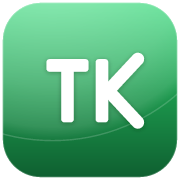
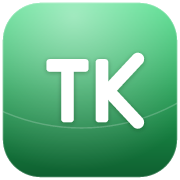
fix: โลโก้ TK — กระจกเงาคลาสสิกแบบ FW (ครึ่งบนสว่าง + เส้นสะท้อนโค้งนุ่ม)
รื้อ gloss ให้เหมือน FW ต้นฉบับ: radial ครึ่งบนสว่างชัด + เส้นสะท้อนวงใหญ่โค้งนุ่ม
พาดล่าง เข้มลงล่าง · sync generator · icon.svg · Logo.tsx + regenerate PNG

diff --git a/src/components/Logo.tsx b/src/components/Logo.tsx
@@ -22,10 +22,9 @@ export function Logo({ size = 40, className }: { size?: number; className?: stri
           <stop offset="0.5" stopColor="#1c9a4e" />
           <stop offset="1" stopColor="#0f5f30" />
         </linearGradient>
-        <radialGradient id="tk-gloss" cx="0.5" cy="0.5" r="0.5">
-          <stop offset="0" stopColor="#ffffff" stopOpacity="0.42" />
-          <stop offset="0.72" stopColor="#ffffff" stopOpacity="0.24" />
-          <stop offset="0.93" stopColor="#ffffff" stopOpacity="0.13" />
+        <radialGradient id="tk-gloss" cx="210" cy="46" r="440" gradientUnits="userSpaceOnUse">
+          <stop offset="0" stopColor="#ffffff" stopOpacity="0.52" />
+          <stop offset="0.62" stopColor="#ffffff" stopOpacity="0.20" />
           <stop offset="1" stopColor="#ffffff" stopOpacity="0" />
         </radialGradient>
         <clipPath id="tk-clip">
@@ -34,8 +33,8 @@ export function Logo({ size = 40, className }: { size?: number; className?: stri
       </defs>
       <rect x="8" y="8" width="496" height="496" rx="108" fill="url(#tk-bg)" />
       <g clipPath="url(#tk-clip)">
-        <circle cx="150" cy="-140" r="540" fill="url(#tk-gloss)" />
-        <circle cx="150" cy="-140" r="540" fill="none" stroke="#ffffff" strokeOpacity="0.18" strokeWidth="4" />
+        <rect x="8" y="8" width="496" height="496" fill="url(#tk-gloss)" />
+        <circle cx="232" cy="-196" r="560" fill="none" stroke="#ffffff" strokeOpacity="0.20" strokeWidth="4" />
       </g>
       <rect x="9" y="9" width="494" height="494" rx="107" fill="none" stroke="#ffffff" strokeOpacity="0.28" strokeWidth="2" />
       {/* TK monogram */}
